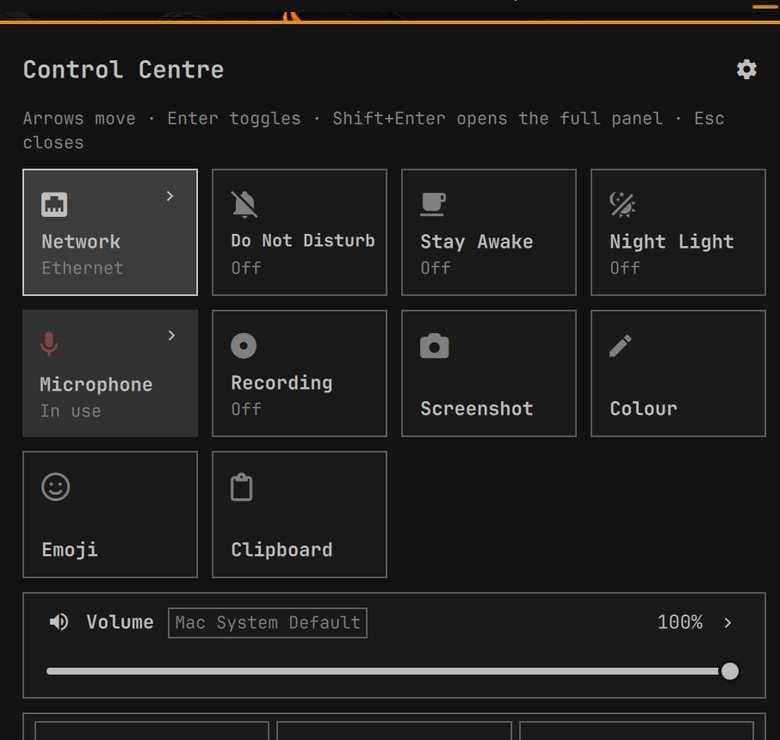
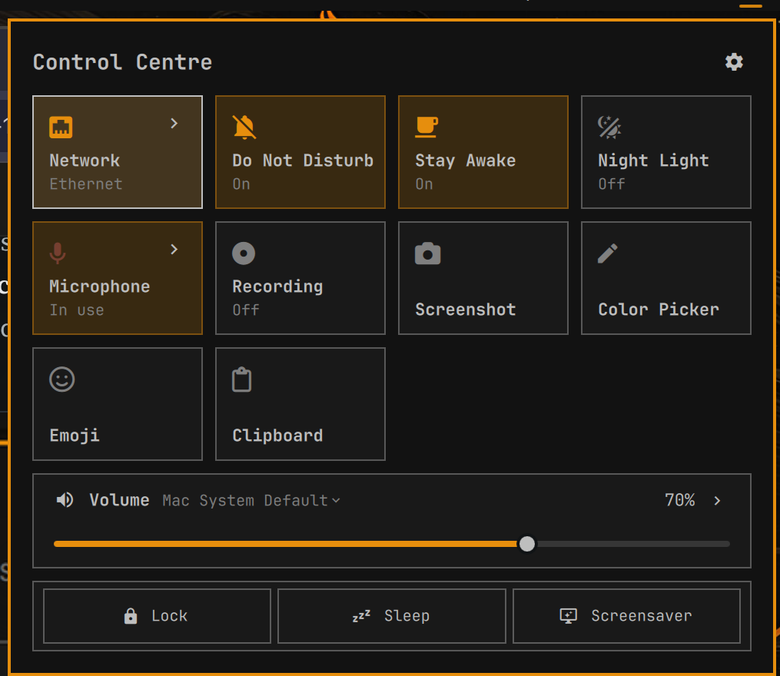
Spend the theme's accent on what is on
The card was monochrome apart from its own border. The plan had always said
the accent should mark active state, and it never landed: the shell's shared
selected token is written by the theme template as the theme's own foreground,
for every theme, so passing the accent into those helpers changed nothing.

That token governs generic control chrome. This card is about state, and
Omarchy already spends the accent on state elsewhere, in the mark under a bar
icon whose panel is open and in the border of this card. So the accent now
marks what is on: an active control's fill, border and glyph, a slider's
filled track, the chosen power profile and the current theme. Everything else
stays neutral, which is what keeps that reading, and the cursor ring stays in
the foreground colour so the cursor never reads as state.

Two kinds of theme cannot pay for it, and both fall back to the shared token.
One that never set an accent has the foreground sitting in that slot. One
whose accent is a neutral would give an "on" tile a paler wash than the plain
foreground already gives; the White theme is exactly that, and checking only
for a different colour made its "on" state weaker than before, which is why
the test measures saturation too.

The duplicate-binding guard earned its place again here: adding a second
foreground binding to a Button that already had one would have taken those
components out at load with nothing in the log.
[…]

diff --git a/Tiles/TileSurface.qml b/Tiles/TileSurface.qml
@@ -28,6 +28,27 @@ BorderSurface {
   readonly property bool dimmed: hiddenInEdit
   property color foreground: Color.popups.text
   property color accent: Color.accent
+
+  // What "on" is painted in.
+  //
+  // The shell's shared `selected` token is written by the theme template as
+  // the theme's own foreground, for every theme, so following it leaves a card
+  // whose entire job is showing what is on rendered in exactly one colour.
+  // That token is about generic control chrome; this card is about state, and
+  // Omarchy already spends the accent on state elsewhere: the mark under a bar
+  // icon whose panel is open, and the border of this very card.
+  //
+  // So the accent marks what is on, when the theme has an accent worth
+  // spending. Two ways it might not: a theme that never set one, where the
+  // accent is the foreground; and a theme whose accent is a neutral, where an
+  // "on" tile would come out a paler wash than the plain foreground gives.
+  // Either way the shared token is the better answer.
+  readonly property bool hasColourAccent: accent.hsvSaturation > 0.15
+    && (Math.abs(accent.r - foreground.r) + Math.abs(accent.g - foreground.g)
+      + Math.abs(accent.b - foreground.b) > 0.15)
+  readonly property color stateColor: hasColourAccent
+    ? accent
+    : Style.selectedStateColor(foreground, accent)
   property string tooltip: ""
   property string fontFamily: Style.font.family
 
@@ -61,12 +82,14 @@ BorderSurface {
   // themes give normal chrome a stronger border (0.4) than hover-cursor
   // (0.25), so a bordered tile would go *fainter* under the cursor, and the
   // hover fill is dimmer than the selected fill it would be replacing.
-  color: active ? Style.selectedFillFor(foreground, accent) : Style.normalFillFor(foreground, accent)
+  color: active ? Util.alpha(stateColor, Style.selectedFillAlpha) : Style.normalFillFor(foreground, accent)
   borderSpec: dropTarget
     ? Border.flat(accent, Math.max(2, Style.space(2)))
     : (hasCursor
       ? Border.flat(Style.focusStateColor(foreground, accent), Math.max(1, Style.focusBorderWidth))
-      : (active ? Border.controlSpec("selected", foreground, accent) : Border.controlSpec("normal", foreground, accent)))
+      : (active
+        ? Border.flat(Util.alpha(stateColor, 0.5), Style.normalBorderWidth)
+        : Border.controlSpec("normal", foreground, accent)))
 
   Behavior on color { enabled: !root.reduceMotion; ColorAnimation { duration: 100 } }
 

diff --git a/Tiles/PowerTile.qml b/Tiles/PowerTile.qml
@@ -106,7 +106,7 @@ TileSurface {
           text: root.profiles.length <= 2 ? Model.profileLabel(modelData) : ""
           tooltipText: Model.profileLabel(modelData)
           fontSize: Style.font.caption
-          foreground: root.foreground
+          foreground: root.shownProfile === modelData ? root.stateColor : root.foreground
           accent: root.accent
           fontFamily: root.fontFamily
           horizontalPadding: Style.spacing.lg

diff --git a/Tiles/SliderTile.qml b/Tiles/SliderTile.qml
@@ -164,7 +164,7 @@ TileSurface {
       enabled: !root.editing
       opacity: root.muted ? 0.5 : 1
       trackColor: Style.selectedFillFor(root.foreground, root.accent)
-      fillColor: root.foreground
+      fillColor: root.muted ? Qt.darker(root.foreground, 1.6) : root.stateColor
       knobColor: root.foreground
       tickColor: Color.popups.background
       onMoved: function(v) { root.moved(v) }

diff --git a/Tiles/ToggleTile.qml b/Tiles/ToggleTile.qml
@@ -19,7 +19,7 @@ TileSurface {
   signal chevronClicked()
 
   readonly property color dim: Qt.darker(foreground, 1.5)
-  readonly property color glyphColor: urgent ? Color.urgent : (active ? Style.selectedStateColor(foreground, accent) : dim)
+  readonly property color glyphColor: urgent ? Color.urgent : (active ? root.stateColor : dim)
   readonly property int pad: Style.spacing.xl
 
 

diff --git a/Tiles/ThemeTile.qml b/Tiles/ThemeTile.qml
@@ -90,7 +90,7 @@ TileSurface {
           required property int index
           text: root.pretty(modelData)
           fontSize: Style.font.caption
-          foreground: root.foreground
+          foreground: root.shown === modelData ? root.stateColor : root.foreground
           accent: root.accent
           fontFamily: root.fontFamily
           horizontalPadding: Style.spacing.lg

diff --git a/NOTES.md b/NOTES.md
@@ -297,6 +297,26 @@ for something the user has taken off their card is noise, and the mark had
 nowhere to sit that did not land on the control's own trailing content, which
 is right-aligned on exactly the wide rows where the mark wanted to go.
 
+## Where the accent goes
+
+The shell's shared `selected` token is written by the theme template as the
+theme's own foreground, for every theme, so a card built strictly on that
+token comes out in exactly one colour. That token governs generic control
+chrome; this card is about state, and Omarchy already spends the accent on
+state elsewhere: the mark under a bar icon whose panel is open, and the border
+of this card.
+
+So the accent marks what is on: an active control's fill, border and glyph, a
+slider's filled track, the chosen power profile, the current theme. Everything
+else stays neutral, which is what keeps that reading.
+
+Two themes cannot pay for it. One that never set an accent has the foreground
+in that slot, and one whose accent is a neutral would give an "on" tile a
+paler wash than the plain foreground does. Both fall back to the shared token,
+tested by saturation as well as by distance from the foreground. The White
+theme is the case that made this necessary: its accent is a mid grey, and
+following it made "on" weaker than it had been.
+
 ## Motion
 
 The card's resting position is derived from its own width and height: it is

diff --git a/README.md b/README.md
@@ -13,6 +13,7 @@ Anything deeper opens the stock Omarchy panel it belongs to.
 |---|---|
 | One surface | Thirty-eight controls in one card, on the focused monitor |
 | Native | Built from the shell's own components, so it follows your theme exactly |
+| Reads at a glance | Your theme's accent marks what is on, so the card answers "what have I left running" without being read |
 | Never a duplicate | Wi-Fi lists, Bluetooth pairing, the per-app mixer and monitor layout stay in the stock panels, one chevron away |
 | Live both ways | A tile reflects a change made anywhere else, and a change made here shows up everywhere else |
 | Keyboard first | Arrows, digits, Tab and Enter reach everything; the mouse does too |
